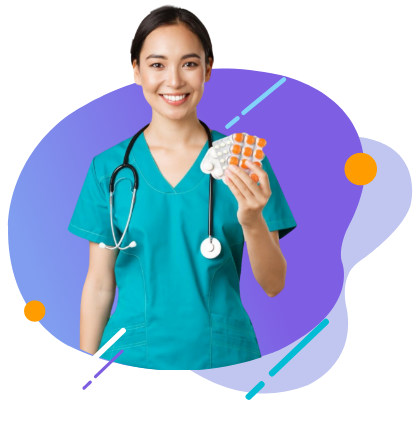
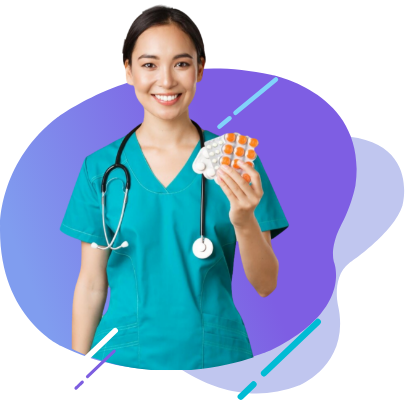
Ajustes 6

diff --git a/src/config/global.js b/src/config/global.js
@@ -8,12 +8,8 @@ export default {
     fondoBannerPrincipal: require('@/assets/curso/portada/fondo-banner-principal.png'),
     imagenesDecorativasBanner: [
       {
-        //clases: ['banner-principal-decorativo-1', 'd-none', 'd-lg-block'],
-        //imagen: require('@/assets/curso/portada/banner-principal-decorativo-1.svg'),
-      },
-      {
-        //clases: ['banner-principal-decorativo-2'],
-        //imagen: require('@/assets/curso/portada/banner-principal-decorativo-2.svg'),
+        clases: ['banner-principal-decorativo-1', 'd-none', 'd-lg-block'],
+        imagen: require('@/assets/curso/portada/banner-principal-decorativo-1.svg'),
       },
     ],
   },

diff --git a/src/styles/_custom.sass b/src/styles/_custom.sass
@@ -1,14 +1,21 @@
-.banner-principal__row .banner-principal__img
-  width: 400px
-  animation: float1 3.5s ease-in-out infinite alternate
-  position: relative
+.banner-principal-decorativo
+  &-1
+    animation: rotation 9s infinite linear
+    position: absolute
+    width: 108%
+    bottom: 45%
+    left: -10%
 
-@keyframes float1
+@keyframes rotation
   0%
-    transform: translateY(20px)
-
+    transform: rotate(0deg)
+    opacity: 0
+  50%
+    transform: rotate(180deg)
+    opacity: 1
   100%
-    transform: translateY(0px)
+    transform: rotate(359deg)
+    opacity: 0
 
 
 .banner-principal__img
